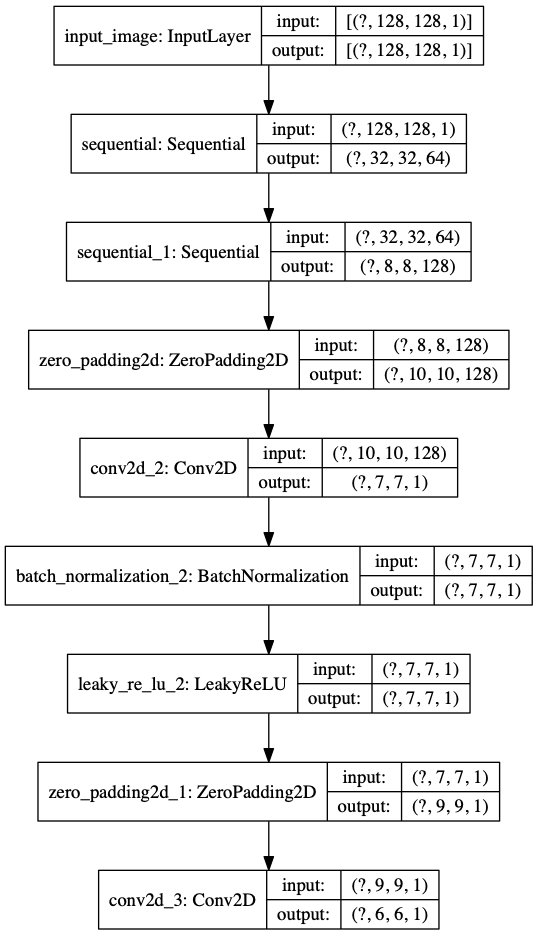
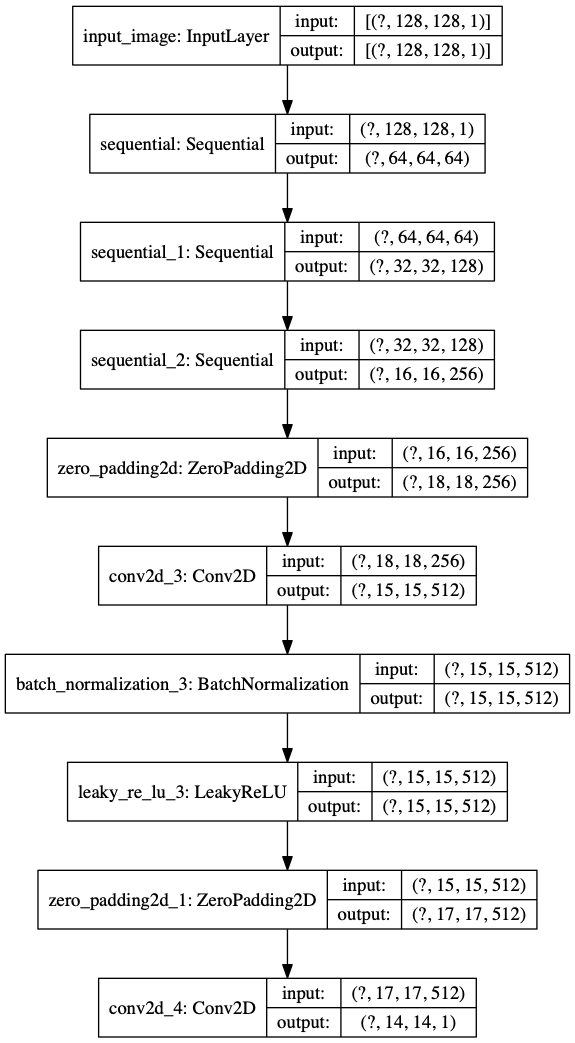
update

Changed region(s): [[0.0, 0.0, 1.0, 1.0], [0.0297, 0.3722, 0.0595, 0.4032]]

diff --git a/model.py b/model.py
@@ -84,7 +84,6 @@ def downsample(filters, size, apply_batchnorm=True):
     if apply_batchnorm:
         result.add(tf.keras.layers.BatchNormalization())
     result.add(tf.keras.layers.LeakyReLU())
-    result.add(tf.keras.layers.MaxPool2D())
     return result
 
 
@@ -153,9 +152,9 @@ def make_discriminator_model(len_low_size=16, scale=4):
     x = inp
     down1 = downsample(64, 4, False)(x)
     down2 = downsample(128, 4)(down1)
-    #down3 = downsample(256, 4)(down2)
-    zero_pad1 = tf.keras.layers.ZeroPadding2D()(down2)
-    conv = tf.keras.layers.Conv2D(1, 4, strides=1,
+    down3 = downsample(256, 4)(down2)
+    zero_pad1 = tf.keras.layers.ZeroPadding2D()(down3)
+    conv = tf.keras.layers.Conv2D(512, 4, strides=1,
                                   kernel_initializer=initializer,
                                   kernel_constraint=symmetry_constraints(), 
                                   use_bias=False)(zero_pad1)
